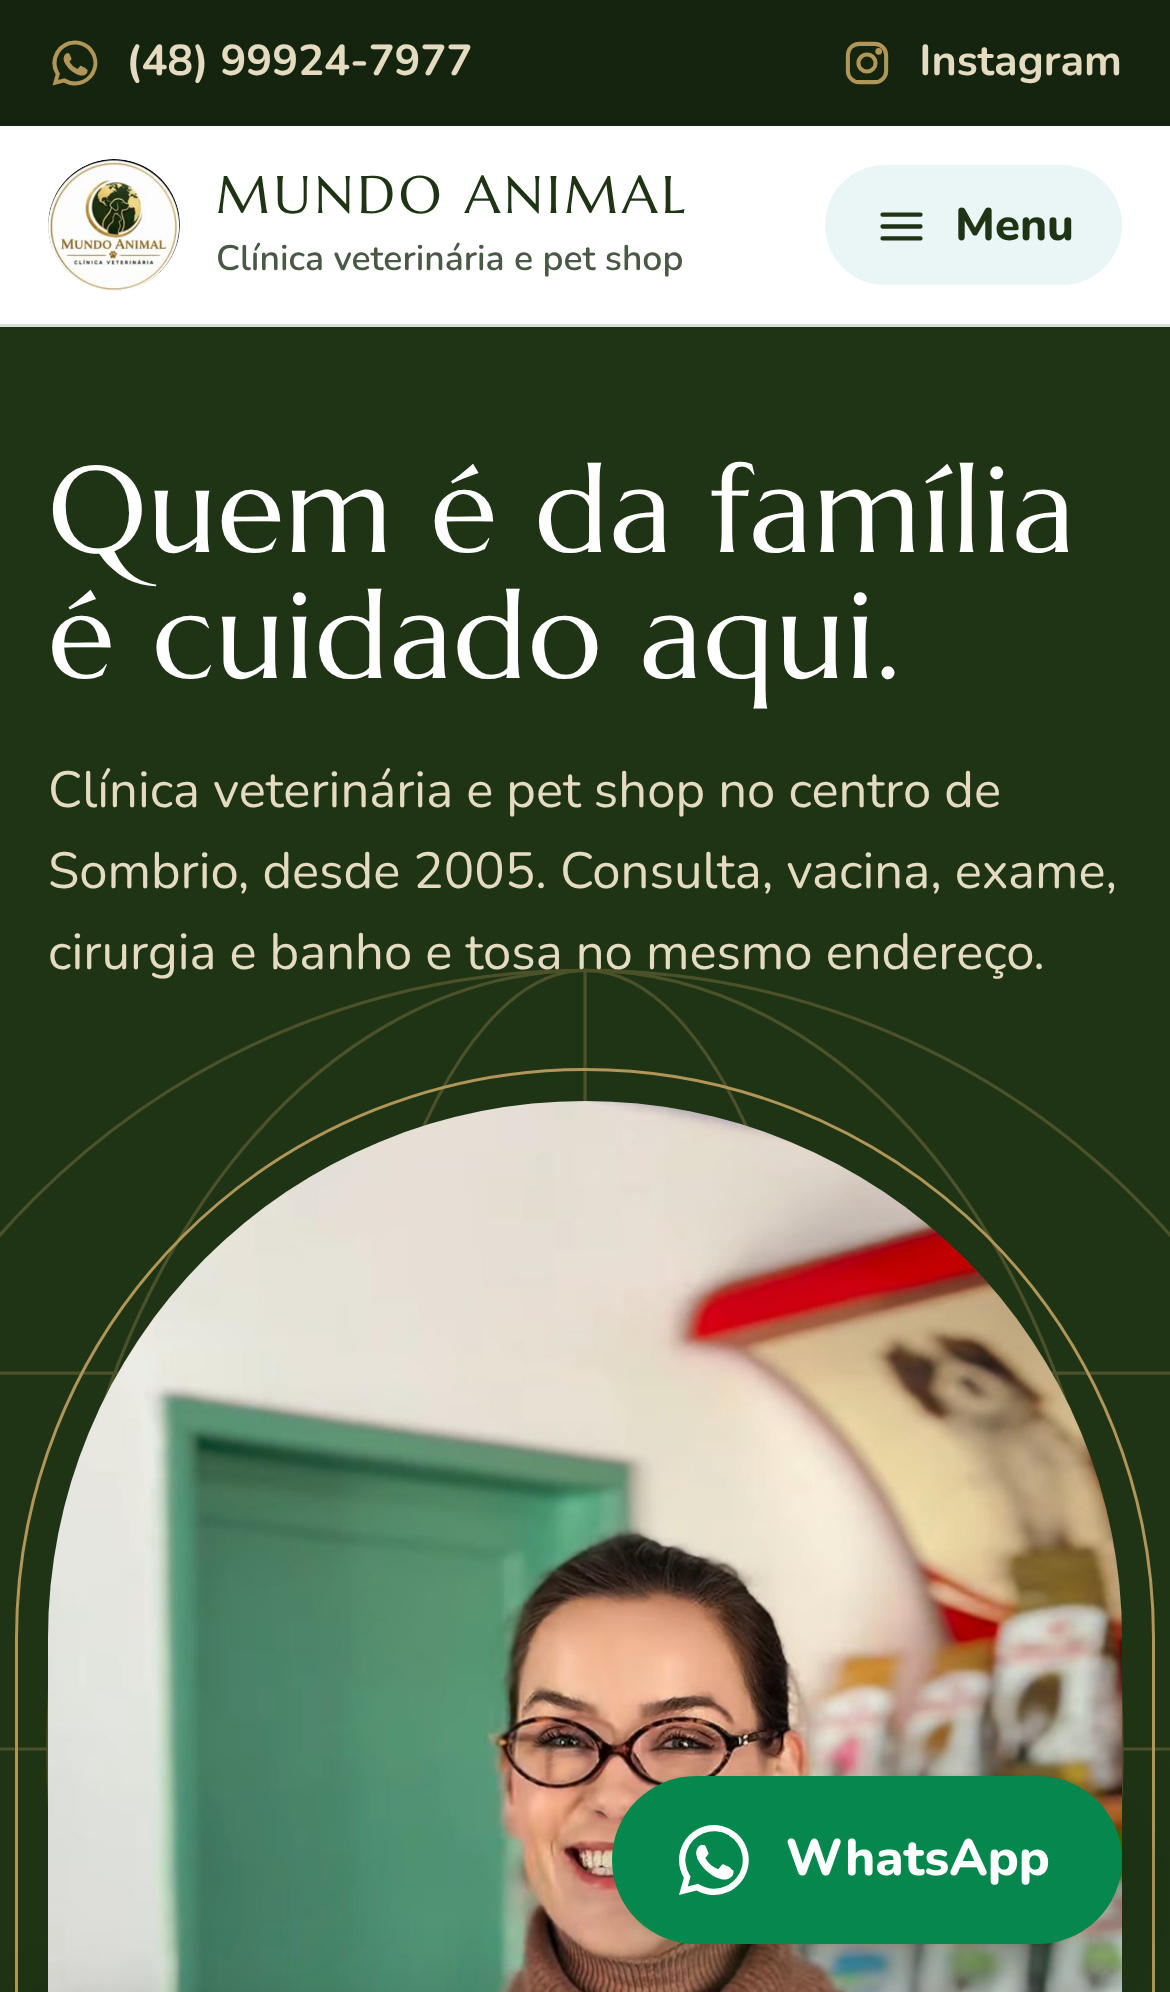
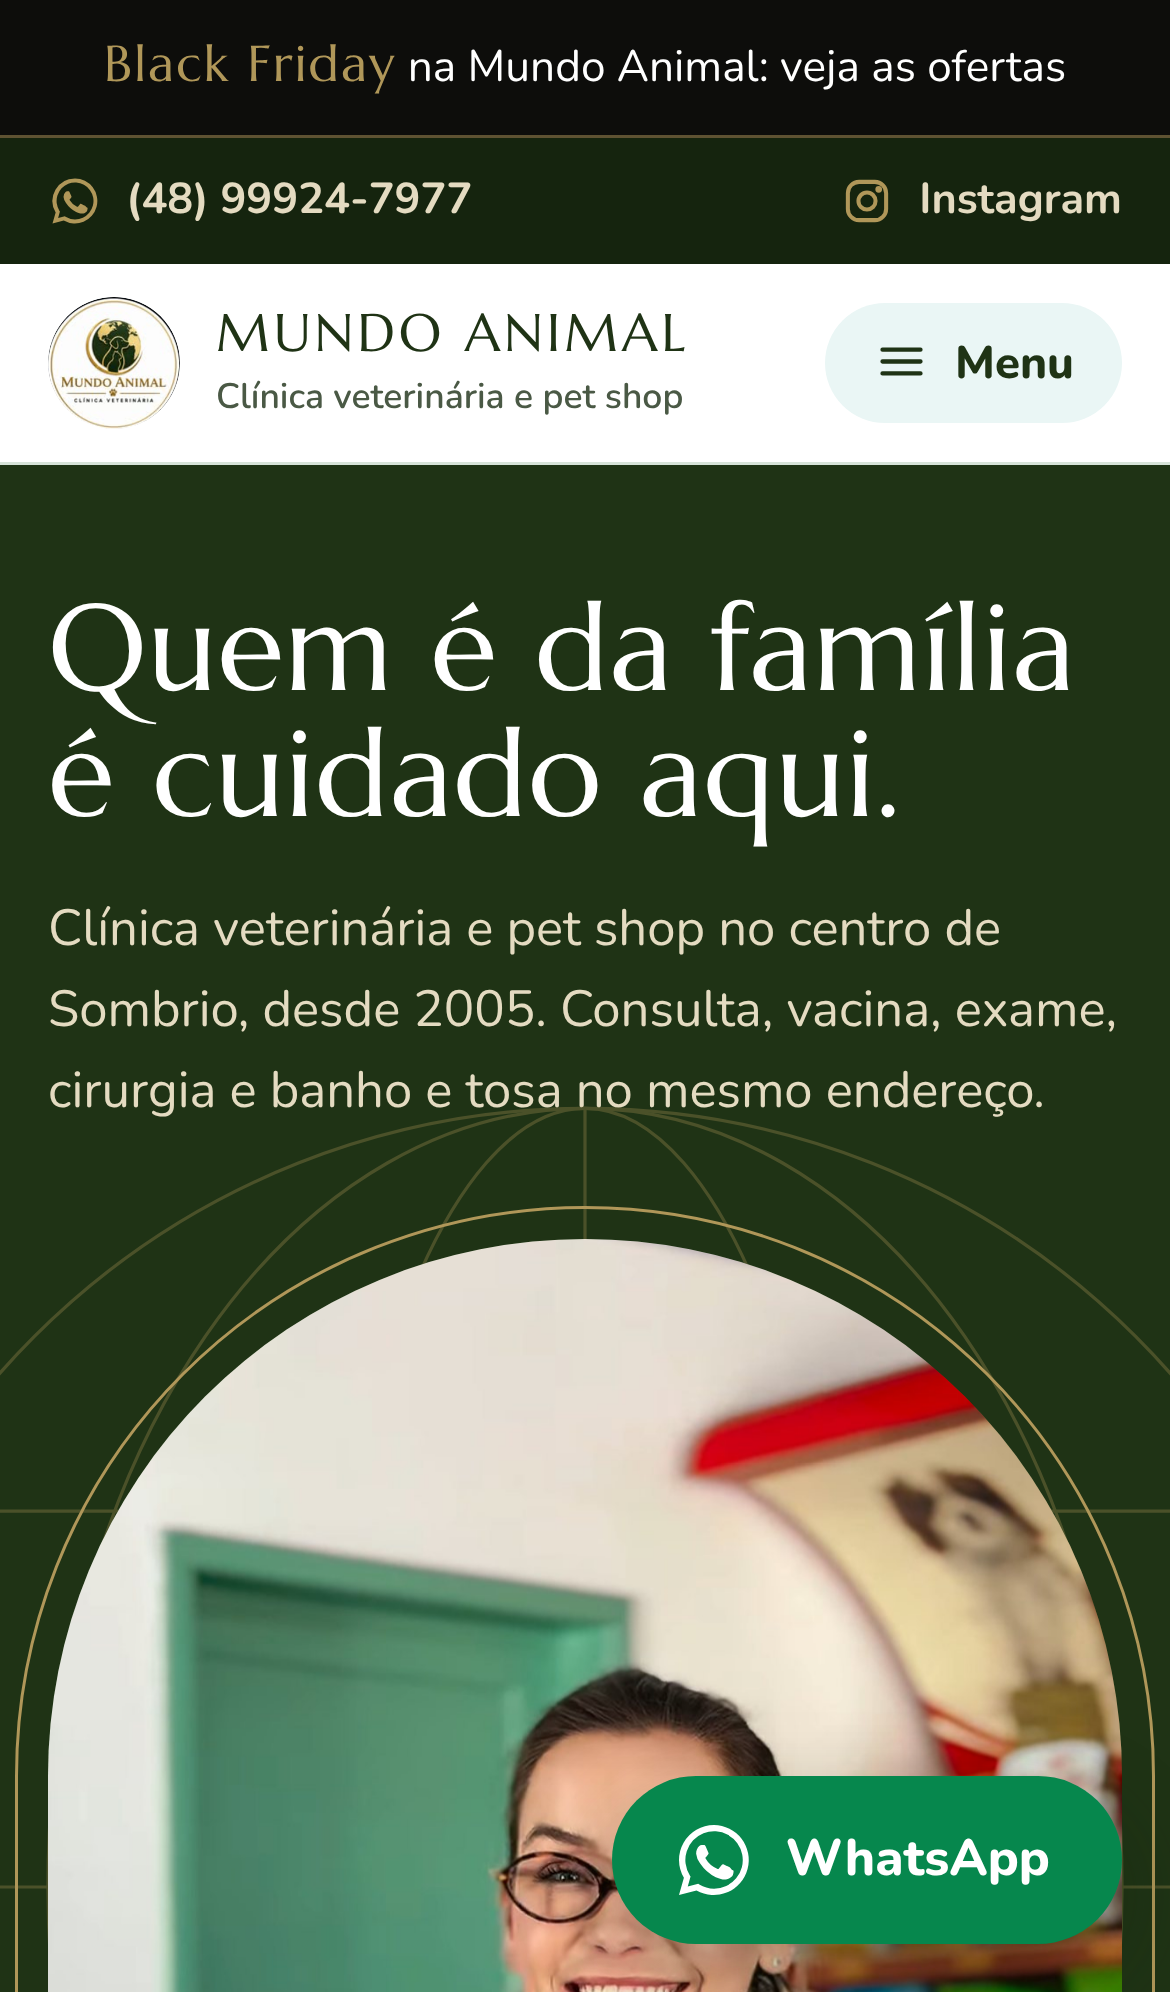
Site Mundo Animal: campanha de Black Friday (faixa e seção, somem em 01/12)
Claude-Session: https://claude.ai/code/session_01N8Ng2N2G46AjMmktg1NTrP

diff --git a/site-mundo-animal/site/css/estilo.css b/site-mundo-animal/site/css/estilo.css
@@ -370,6 +370,30 @@ input:focus,select:focus,textarea:focus{outline:none;border-color:var(--verde);b
   .abertura h1{font-size:2.55rem}
   .abertura-sub{font-size:1.06rem}
 }
+/* ---------- Black Friday (campanha temporária) ---------- */
+.faixa-bf{display:block;text-align:center;background:#0d0d0b;color:var(--creme-texto);text-decoration:none;font-size:.92rem;padding:9px 16px;border-bottom:1px solid rgba(176,151,89,.5)}
+.faixa-bf b{color:var(--dourado);font-family:var(--serifa);font-weight:400;font-size:1.05rem;letter-spacing:.04em}
+.faixa-bf:hover{color:#fff}
+.black-friday{background:#0d0d0b radial-gradient(ellipse at 80% 40%,rgba(176,151,89,.18),transparent 60%);color:var(--creme-texto);padding:88px 0}
+.black-friday .wrap{display:grid;grid-template-columns:1.2fr .8fr;gap:56px;align-items:center}
+.black-friday :focus-visible{outline-color:var(--amarelo)}
+.black-friday h2{font-size:clamp(3.2rem,8vw,6.4rem);line-height:.95;color:#fff}
+.bf-friday{color:var(--dourado)}
+.bf-sub{font-size:1.2rem;margin:20px 0 30px;max-width:40ch}
+.bf-ofertas{list-style:none;margin:0 0 34px;padding:0;display:grid;gap:14px;max-width:460px}
+.bf-ofertas li{display:flex;align-items:center;gap:16px;padding:14px 18px;border:1px solid rgba(176,151,89,.45);border-radius:18px}
+.bf-ofertas b{display:block;color:#fff;font-size:1.08rem}
+.bf-ofertas .icone-circulo{background:#1c1a14;color:var(--dourado);box-shadow:inset 0 0 0 1.5px var(--dourado)}
+.btn-ouro{background:var(--dourado);color:#0d0d0b}
+.btn-ouro:hover{background:#c6ad6d;color:#0d0d0b}
+.bf-video{margin:0;justify-self:center;width:100%;max-width:300px}
+.bf-tela{aspect-ratio:9/16;border-radius:34px;border:8px solid #1c1a14;outline:1.5px solid var(--dourado);outline-offset:6px;background:#16150f;display:grid;place-items:center;text-align:center;padding:24px;overflow:hidden}
+.bf-tela video,.bf-tela iframe{width:100%;height:100%;object-fit:cover;border:0}
+.bf-tela p{margin:0;font-family:var(--serifa);font-size:1.3rem;color:var(--dourado)}
+.bf-tela small{font:600 .85rem var(--texto);color:#b9b096}
+@media (max-width:900px){.black-friday .wrap{grid-template-columns:1fr;gap:44px}.bf-video{max-width:260px}}
+@media (max-width:700px){.black-friday{padding:64px 0}.black-friday .btn{width:100%}}
+
 @media (prefers-reduced-motion:reduce){
   html{scroll-behavior:auto}
   *,*::before,*::after{transition:none!important;animation:none!important}

diff --git a/site-mundo-animal/site/index.html b/site-mundo-animal/site/index.html
@@ -81,6 +81,8 @@
   </div>
 </div>
 
+<a class="faixa-bf campanha" href="#black-friday" data-ate="2026-12-01"><b>Black Friday</b> na Mundo Animal: veja as ofertas</a>
+
 <div class="barra-contato">
   <div class="wrap">
     <a class="zap" href="#" data-msg="Olá! Vim pelo site e gostaria de falar com a clínica."><svg class="ico"><use href="#i-zap"/></svg>(48) 99924-7977</a>
@@ -147,6 +149,27 @@
     <li><span class="icone-circulo"><svg class="ico"><use href="#i-tesoura"/></svg></span><span><b>Banho e tosa</b> com hora marcada</span></li>
     <li><span class="icone-circulo"><svg class="ico"><use href="#i-carro"/></svg></span><span><b>Busca e entrega</b> do seu pet</span></li>
   </ul>
+</section>
+
+<!-- Campanha: some sozinha depois da data em data-ate -->
+<section class="black-friday campanha" id="black-friday" data-ate="2026-12-01" aria-labelledby="t-bf">
+  <div class="wrap">
+    <div class="bf-texto">
+      <h2 id="t-bf"><span class="bf-black">Black</span> <span class="bf-friday">Friday</span></h2>
+      <p class="bf-sub">Ofertas na clínica e no pet shop, por poucos dias. <span class="conf" title="Até quando valem as ofertas">até 30/11? a confirmar</span></p>
+      <ul class="bf-ofertas">
+        <li><span class="icone-circulo"><svg class="ico"><use href="#i-tigela"/></svg></span><div><b>Rações e petiscos</b><span class="conf" title="Oferta real">oferta a confirmar</span></div></li>
+        <li><span class="icone-circulo"><svg class="ico"><use href="#i-escudo"/></svg></span><div><b>Medicações e antipulgas</b><span class="conf" title="Oferta real">oferta a confirmar</span></div></li>
+        <li><span class="icone-circulo"><svg class="ico"><use href="#i-tesoura"/></svg></span><div><b>Banho e tosa</b><span class="conf" title="Oferta real">oferta a confirmar</span></div></li>
+      </ul>
+      <a class="btn btn-ouro zap" href="#" data-msg="Olá! Vi a Black Friday no site e quero saber das ofertas."><svg class="ico"><use href="#i-zap"/></svg>Quero as ofertas</a>
+    </div>
+    <figure class="bf-video">
+      <div class="bf-tela">
+        <p>Vídeo da Black Friday<br><small>o reel gravado pela clínica entra aqui</small></p>
+      </div>
+    </figure>
+  </div>
 </section>
 
 <!-- O visitante escolhe a necessidade e já sai com a mensagem pronta -->

diff --git a/site-mundo-animal/site/js/site.js b/site-mundo-animal/site/js/site.js
@@ -213,3 +213,8 @@ alternar.addEventListener("click", () => {
   aplicarRevisao(ligado);
   try { localStorage.setItem("ma-revisao", ligado ? "1" : "0"); } catch (e) { /* sem armazenamento */ }
 });
+
+// ---------- campanhas com data para sumir (data-ate="AAAA-MM-DD") ----------
+document.querySelectorAll(".campanha[data-ate]").forEach(el => {
+  if (new Date() >= new Date(el.dataset.ate + "T00:00")) el.hidden = true;
+});

diff --git a/site-mundo-animal/site/LEIAME.md b/site-mundo-animal/site/LEIAME.md
@@ -61,6 +61,14 @@ Cores e letras são aproximações (ver `../identidade-visual/identidade-visual.
 
 O letreiro da fachada ainda tem o logo antigo (filhote de golden); o site usa o emblema novo. Não foi preciso baixar nada do Instagram.
 
+## Black Friday (27/11)
+
+Pedido do Felipe: a chefa está gravando vídeos da Black Friday, e o site ganhou uma campanha para mostrar a ela.
+- **Faixa preta no topo**, "Black Friday na Mundo Animal: veja as ofertas", que leva à seção.
+- **Seção "Black Friday"** logo depois dos diferenciais, em preto e dourado (o dourado do emblema): três ofertas (rações, medicações e banho e tosa), botão "Quero as ofertas" no WhatsApp e uma moldura de celular para o vídeo.
+- **Some sozinha em 01/12** (atributo `data-ate` na faixa e na seção).
+- **Falta:** as ofertas reais, até quando valem e o vídeo. Para pôr o vídeo, troque o texto dentro de `.bf-tela` por `<video src="img/black-friday.mp4" controls playsinline></video>`.
+
 ## Correções do Felipe (26/11)
 
 - A clínica **não faz anestesia inalatória**: saiu do texto das cirurgias, que agora diz "Das mais simples às mais complexas, com todo o cuidado e monitoração".
